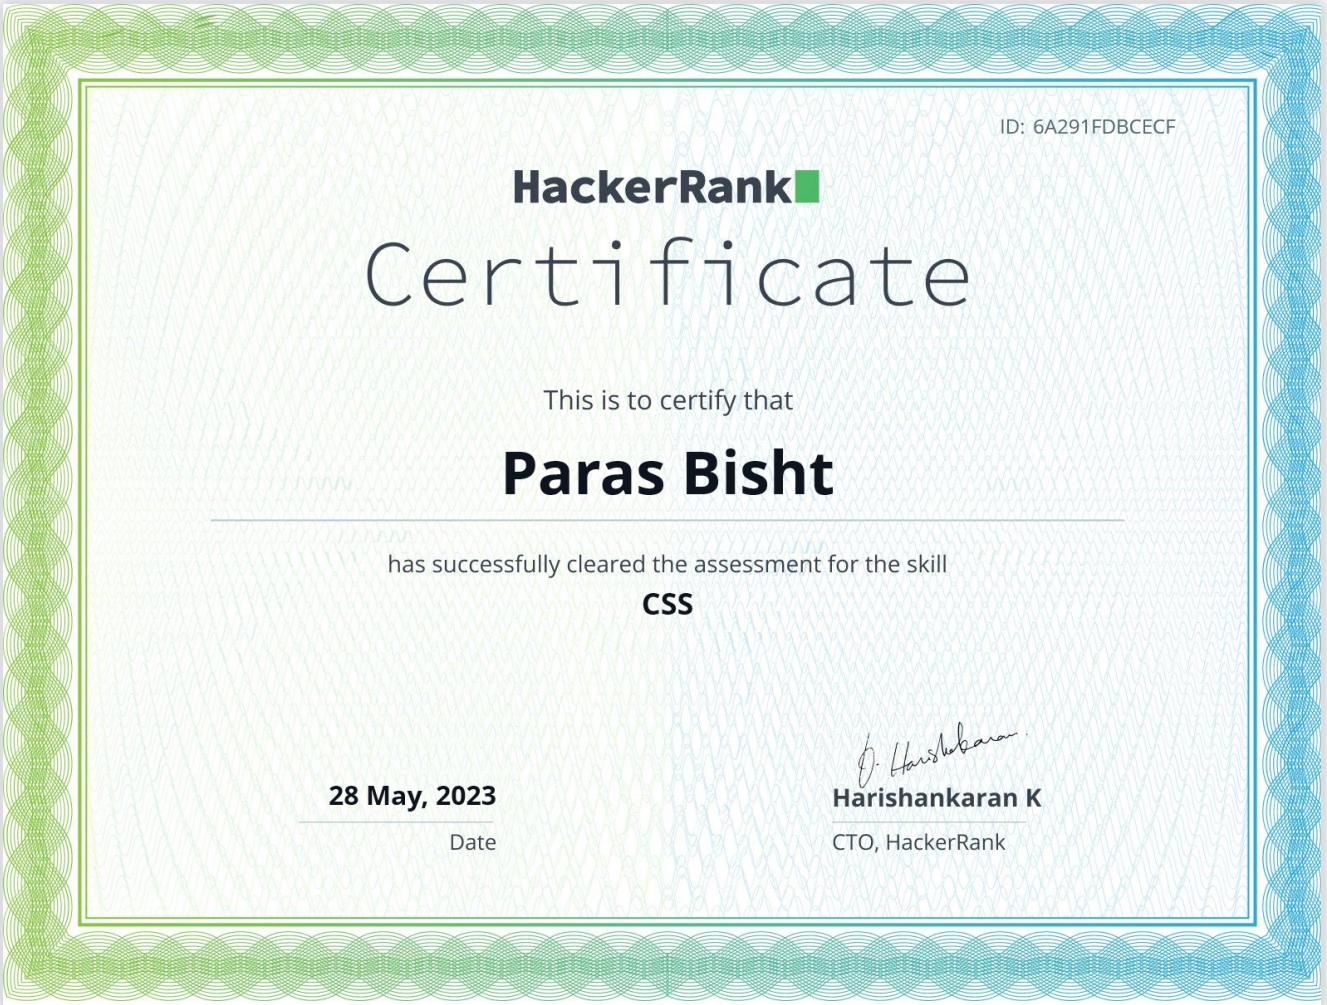
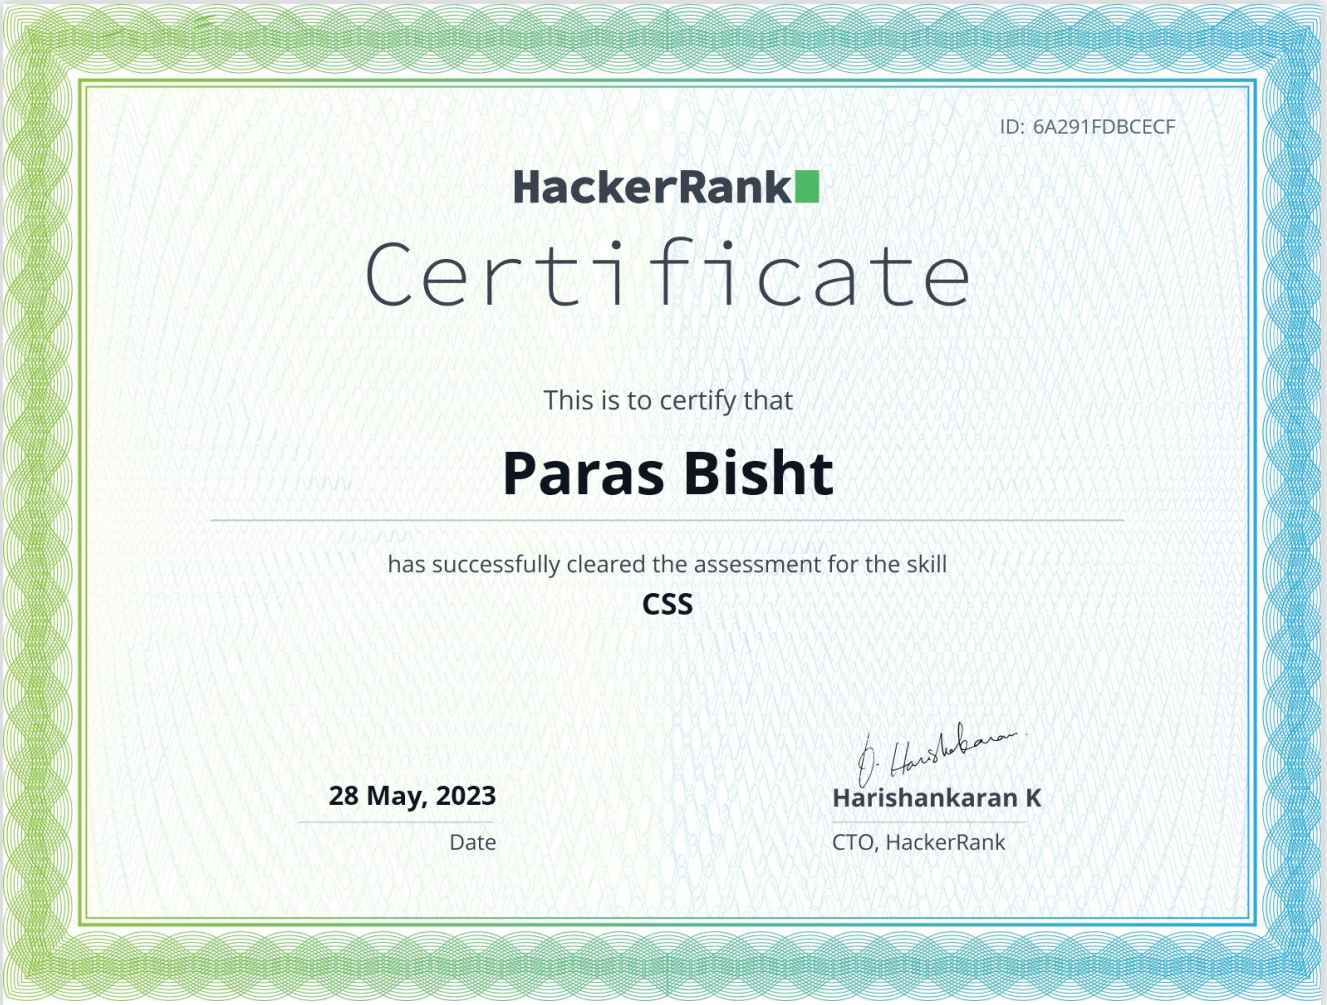
assets size reduced

diff --git a/pages/index.js b/pages/index.js
@@ -106,7 +106,7 @@ export default function Home() {
             <ShowCertificates
               imgLink={sqlCf}
               logo={hackerRankLogo}
-              about="SQL Basics"
+              about="SQL Basics Certification"
               verifyLink={
                 "https://www.hackerrank.com/certificates/00dafe57cbb7"
               }
@@ -114,7 +114,7 @@ export default function Home() {
             <ShowCertificates
               imgLink={digitalMarketingCf}
               logo={googleLogo}
-              about="Fundamentals of Digital Marketing"
+              about="Fundamentals of Digital Marketing Certification"
               verifyLink={
                 "https://learndigital.withgoogle.com/link/1qsdpcedm9s"
               }

diff --git a/components/about/About.js b/components/about/About.js
@@ -36,8 +36,8 @@ function About() {
             &nbsp; &nbsp; &nbsp; skills:{" "}
             <span className={styles.objString}>
               <span className={styles.curlyBraces}>[</span>&#34;Javascript&#34;,
-              &#34;ReactJS&#34;, &#34;NodeJS&#34;, &#34;ExpressJS&#34;,
-              &#34;MongoDB&#34;,
+              &#34;ReactJS&#34;, &#34;NextJS&#34;, &#34;NodeJS&#34;,
+              &#34;ExpressJS&#34;, &#34;MongoDB&#34;,
               <br /> &nbsp; &nbsp;
               &nbsp;&nbsp;&nbsp;&nbsp;&nbsp;&nbsp;&nbsp;&nbsp;&nbsp; &nbsp;
               &nbsp; &#34;TailwindCSS&#34;, &#34;MERN&#34;, &#34;Git&#34;,
